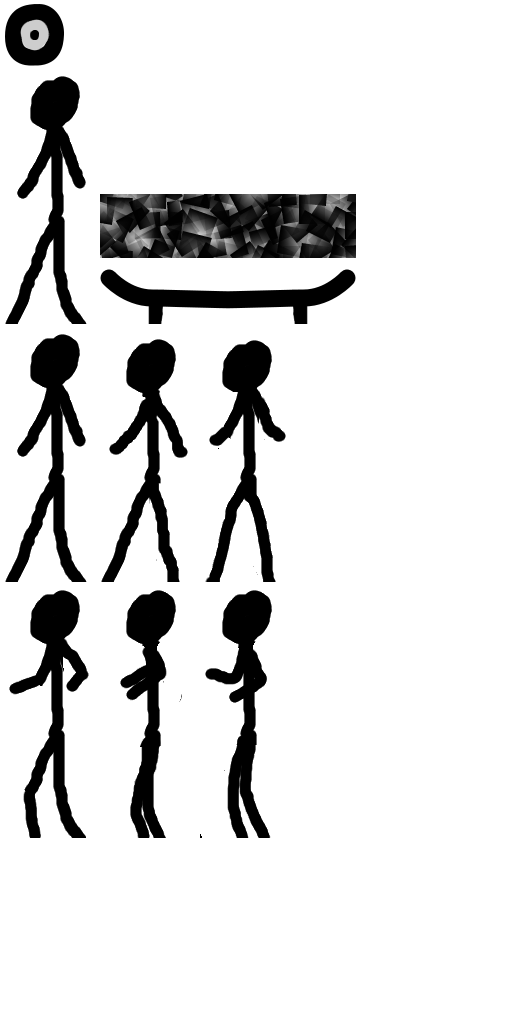
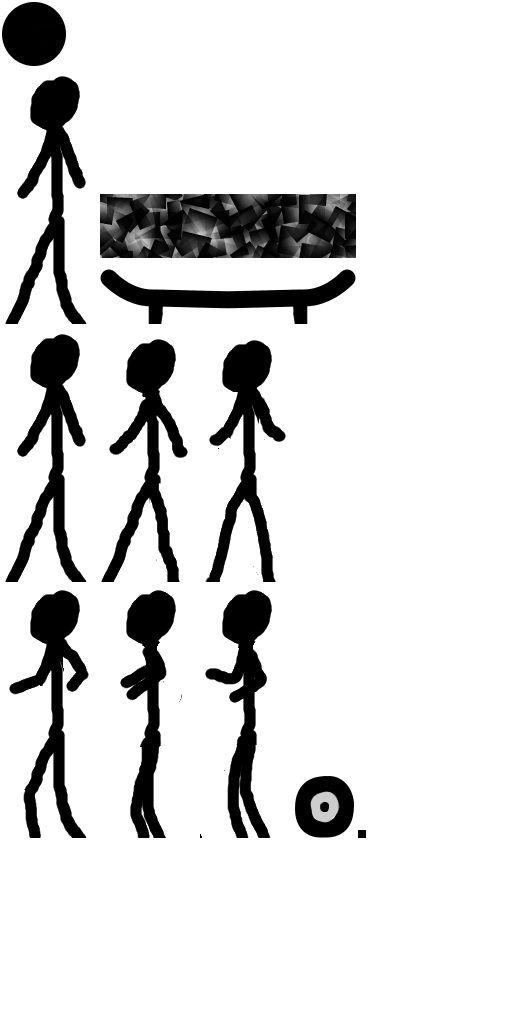
improve ragdoll drawing

Changed region(s): [[0.5625, 0.75, 0.6875, 0.8438], [0.0, 0.0, 0.125, 0.0625]]

diff --git a/Main/src/com/alex/bs/models/Player.java b/Main/src/com/alex/bs/models/Player.java
@@ -32,15 +32,15 @@ public class Player extends SimpleActor {
     private Joint skateJoint;
     private Skate skate;
     private float MAX_VELOCITY = 125;
-    private List<Body> ragdollBodies = new ArrayList<Body>();
-    private List<Vector2> ragdollBodiesSize = new ArrayList<Vector2>();
-    private List<Vector2> ragdollBodiesOffset = new ArrayList<Vector2>();
+    private HashMap<String, Body> ragdollBodiesMap = new HashMap<String, Body>();
+    private HashMap<String, Vector2> ragdollBodiesSize = new HashMap<String, Vector2>();
+    private HashMap<String, Vector2> ragdollBodiesOffset = new HashMap<String, Vector2>();
     private Animation standAnimation, runAnimation;
     private TextureRegion[] standFrames = new TextureRegion[FRAME_COLS];
     private TextureRegion[] runFrames = new TextureRegion[FRAME_COLS];
     private float stateTime = 0;
     private boolean needRemoveBody = false, needRemoveRagdollBody = false;
-    private Sprite spriteBlack;
+    private Sprite spriteBlack, spriteBlackCircle;
     private Vector2 tmpVel = new Vector2();
 
     private static final int FRAME_COLS = 3;
@@ -48,7 +48,8 @@ public class Player extends SimpleActor {
 
     public Player() {
         sprite = ResourceManager.getInstance().getSpriteFromDefaultAtlas("player");
-        spriteBlack = ResourceManager.getInstance().getSpriteFromDefaultAtlas("wall");
+        spriteBlack = ResourceManager.getInstance().getSpriteFromDefaultAtlas("black");
+        spriteBlackCircle = ResourceManager.getInstance().getSpriteFromDefaultAtlas("black_circle");
         TextureRegion t = ResourceManager.getInstance().getRegionFromDefaultAtlas("player_sheet");
         TextureRegion[][] tmp = t.split(t.getRegionWidth() / FRAME_COLS, t.getRegionHeight() / FRAME_ROWS);
 
@@ -108,9 +109,9 @@ public class Player extends SimpleActor {
         Body torsoBody = physicsWorld.createBody(def);
         torsoBody.createFixture(poly, 1).setFilterData(filter);
 
-        ragdollBodiesSize.add(new Vector2(getPhysicsWidth() / 10, getPhysicsHeight() / 2 * 0.4f).scl(GameStage.BOX_TO_WORLD));
-        ragdollBodiesOffset.add(new Vector2(0, 0));
-        ragdollBodies.add(torsoBody);
+        ragdollBodiesSize.put("torso", new Vector2(getPhysicsWidth() / 10, getPhysicsHeight() / 2 * 0.4f).scl(GameStage.BOX_TO_WORLD));
+        ragdollBodiesOffset.put("torso", new Vector2(0, 0));
+        ragdollBodiesMap.put("torso", torsoBody);
 
         CircleShape circle = new CircleShape();
         circle.setRadius(getPhysicsWidth() / 3);
@@ -118,9 +119,9 @@ public class Player extends SimpleActor {
         Body headBody = physicsWorld.createBody(def);
         headBody.createFixture(circle, 1).setFilterData(filter);
 
-        ragdollBodiesSize.add(new Vector2(getPhysicsWidth() / 3, getPhysicsWidth() / 3).scl(GameStage.BOX_TO_WORLD));
-        ragdollBodiesOffset.add(new Vector2(0, getPhysicsHeight() / 2 * 0.65f));
-        ragdollBodies.add(headBody);
+        ragdollBodiesSize.put("head", new Vector2(getPhysicsWidth() / 3, getPhysicsWidth() / 3).scl(GameStage.BOX_TO_WORLD));
+        ragdollBodiesOffset.put("head", new Vector2(0, getPhysicsHeight() / 2 * 0.65f));
+        ragdollBodiesMap.put("head", headBody);
 
         poly = new PolygonShape();
         poly.setAsBox(getPhysicsWidth() / 14, getPhysicsHeight() / 2 * 0.3f,
@@ -128,9 +129,9 @@ public class Player extends SimpleActor {
         Body leftHandBody = physicsWorld.createBody(def);
         leftHandBody.createFixture(poly, 1).setFilterData(filter);
 
-        ragdollBodiesSize.add(new Vector2(getPhysicsWidth() / 14, getPhysicsHeight() / 2 * 0.3f).scl(GameStage.BOX_TO_WORLD));
-        ragdollBodiesOffset.add(new Vector2(0, getPhysicsHeight() * 0.05f));
-        ragdollBodies.add(leftHandBody);
+        ragdollBodiesSize.put("leftHand", new Vector2(getPhysicsWidth() / 14, getPhysicsHeight() / 2 * 0.3f).scl(GameStage.BOX_TO_WORLD));
+        ragdollBodiesOffset.put("leftHand", new Vector2(0, getPhysicsHeight() * 0.05f));
+        ragdollBodiesMap.put("leftHand", leftHandBody);
 
         poly = new PolygonShape();
         poly.setAsBox(getPhysicsWidth() / 14, getPhysicsHeight() / 2 * 0.3f,
@@ -138,9 +139,9 @@ public class Player extends SimpleActor {
         Body rightHandBody = physicsWorld.createBody(def);
         rightHandBody.createFixture(poly, 1).setFilterData(filter);
 
-        ragdollBodiesSize.add(new Vector2(getPhysicsWidth() / 14, getPhysicsHeight() / 2 * 0.3f).scl(GameStage.BOX_TO_WORLD));
-        ragdollBodiesOffset.add(new Vector2(0, getPhysicsHeight() * 0.05f));
-        ragdollBodies.add(rightHandBody);
+        ragdollBodiesSize.put("rightHand", new Vector2(getPhysicsWidth() / 14, getPhysicsHeight() / 2 * 0.3f).scl(GameStage.BOX_TO_WORLD));
+        ragdollBodiesOffset.put("rightHand", new Vector2(0, getPhysicsHeight() * 0.05f));
+        ragdollBodiesMap.put("rightHand", rightHandBody);
 
         poly = new PolygonShape();
         poly.setAsBox(getPhysicsWidth() / 14, getPhysicsHeight() / 2 * 0.4f,
@@ -148,9 +149,9 @@ public class Player extends SimpleActor {
         Body leftLegBody = physicsWorld.createBody(def);
         leftLegBody.createFixture(poly, 1).setFilterData(filter);
 
-        ragdollBodiesSize.add(new Vector2(getPhysicsWidth() / 14, getPhysicsHeight() / 2 * 0.4f).scl(GameStage.BOX_TO_WORLD));
-        ragdollBodiesOffset.add(new Vector2(0, -getPhysicsHeight() * 0.4f));
-        ragdollBodies.add(leftLegBody);
+        ragdollBodiesSize.put("leftLeg", new Vector2(getPhysicsWidth() / 14, getPhysicsHeight() / 2 * 0.4f).scl(GameStage.BOX_TO_WORLD));
+        ragdollBodiesOffset.put("leftLeg", new Vector2(0, -getPhysicsHeight() * 0.4f));
+        ragdollBodiesMap.put("leftLeg", leftLegBody);
 
         poly = new PolygonShape();
         poly.setAsBox(getPhysicsWidth() / 14, getPhysicsHeight() / 2 * 0.4f,
@@ -158,9 +159,9 @@ public class Player extends SimpleActor {
         Body rightLegBody = physicsWorld.createBody(def);
         rightLegBody.createFixture(poly, 1).setFilterData(filter);
 
-        ragdollBodiesSize.add(new Vector2(getPhysicsWidth() / 14, getPhysicsHeight() / 2 * 0.4f).scl(GameStage.BOX_TO_WORLD));
-        ragdollBodiesOffset.add(new Vector2(0, -getPhysicsHeight() * 0.4f));
-        ragdollBodies.add(rightLegBody);
+        ragdollBodiesSize.put("rightLeg", new Vector2(getPhysicsWidth() / 14, getPhysicsHeight() / 2 * 0.4f).scl(GameStage.BOX_TO_WORLD));
+        ragdollBodiesOffset.put("rightLeg", new Vector2(0, -getPhysicsHeight() * 0.4f));
+        ragdollBodiesMap.put("rightLeg", rightLegBody);
 
         RevoluteJointDef revoluteJointDef = new RevoluteJointDef();
         revoluteJointDef.enableLimit = true;
@@ -184,7 +185,7 @@ public class Player extends SimpleActor {
         revoluteJointDef.initialize(rightLegBody, torsoBody, new Vector2(0, -getPhysicsHeight() / 2 * 0.4f));
         physicsWorld.createJoint(revoluteJointDef);
 
-        for(Body b : ragdollBodies)
+        for(Body b : ragdollBodiesMap.values())
             b.setTransform(pos.cpy().add(getWidth() / 2, getHeight() / 2)
                     .scl(GameStage.WORLD_TO_BOX), (float)Math.toRadians(getRotation()));
     }
@@ -193,8 +194,8 @@ public class Player extends SimpleActor {
     public void setPosition(float x, float y, boolean applyToBody) {
         super.setPosition(x, y, applyToBody);
 
-        if(applyToBody && ragdollBodies.size() > 0)
-            for(Body b : ragdollBodies) {
+        if(applyToBody && ragdollBodiesMap.size() > 0)
+            for(Body b : ragdollBodiesMap.values()) {
                 b.setTransform(pos.cpy().scl(GameStage.WORLD_TO_BOX), (float)Math.toRadians(getRotation()));
             }
     }
@@ -209,17 +210,22 @@ public class Player extends SimpleActor {
 
     @Override
     public void draw(SpriteBatch batch, float parentAlpha) {
-        if(ragdollBodies.size() > 0) {
-            for(int i = 0; i < ragdollBodies.size(); i++) {
-                Body b = ragdollBodies.get(i);
+        if(ragdollBodiesMap.size() > 0) {
+            for(String name : ragdollBodiesMap.keySet()) {
+                Body b = ragdollBodiesMap.get(name);
                 Vector2 pos = b.getPosition().cpy().scl(GameStage.BOX_TO_WORLD);
-                Vector2 size = ragdollBodiesSize.get(i);
-                Vector2 offset = ragdollBodiesOffset.get(i).cpy().scl(GameStage.BOX_TO_WORLD);
-                spriteBlack.setPosition(pos.x - size.x + offset.x, pos.y - size.y + offset.y);
-                spriteBlack.setRotation((float) Math.toDegrees(b.getAngle()));
-                spriteBlack.setSize(size.x * 2, size.y * 2);
-                spriteBlack.setOrigin(size.x - offset.x, size.y - offset.y);
-                spriteBlack.draw(batch);
+                Vector2 size = ragdollBodiesSize.get(name);
+                Vector2 offset = ragdollBodiesOffset.get(name).cpy().scl(GameStage.BOX_TO_WORLD);
+
+                Sprite sprite = spriteBlack;
+                if(name.equals("head"))
+                    sprite = spriteBlackCircle;
+
+                sprite.setPosition(pos.x - size.x + offset.x, pos.y - size.y + offset.y);
+                sprite.setRotation((float) Math.toDegrees(b.getAngle()));
+                sprite.setSize(size.x * 2, size.y * 2);
+                sprite.setOrigin(size.x - offset.x, size.y - offset.y);
+                sprite.draw(batch);
             }
         } else {
             stateTime += Gdx.graphics.getDeltaTime();
@@ -352,13 +358,13 @@ public class Player extends SimpleActor {
 
             createRagdollPhysicsActor();
 
-            for(Body b : ragdollBodies)
+            for(Body b : ragdollBodiesMap.values())
                 b.setLinearVelocity(tmpVel.scl(GameStage.WORLD_TO_BOX).scl(2));
         }
         if(needRemoveRagdollBody) {
-            for(Body b : ragdollBodies)
+            for(Body b : ragdollBodiesMap.values())
                 physicsWorld.destroyBody(b);
-            ragdollBodies.clear();
+            ragdollBodiesMap.clear();
             needRemoveRagdollBody = false;
 
             createPhysicsActor(physicsWorld);
@@ -369,8 +375,8 @@ public class Player extends SimpleActor {
 
         super.act(delta);
 
-        if(ragdollBodies.size() > 0) {
-            Body torsoBody = ragdollBodies.get(0);
+        if(ragdollBodiesMap.size() > 0) {
+            Body torsoBody = ragdollBodiesMap.get("head");
             Vector2 pos = torsoBody.getPosition();
             setRotation((float)Math.toDegrees(torsoBody.getAngle()), false);
             linVel = torsoBody.getLinearVelocity();
